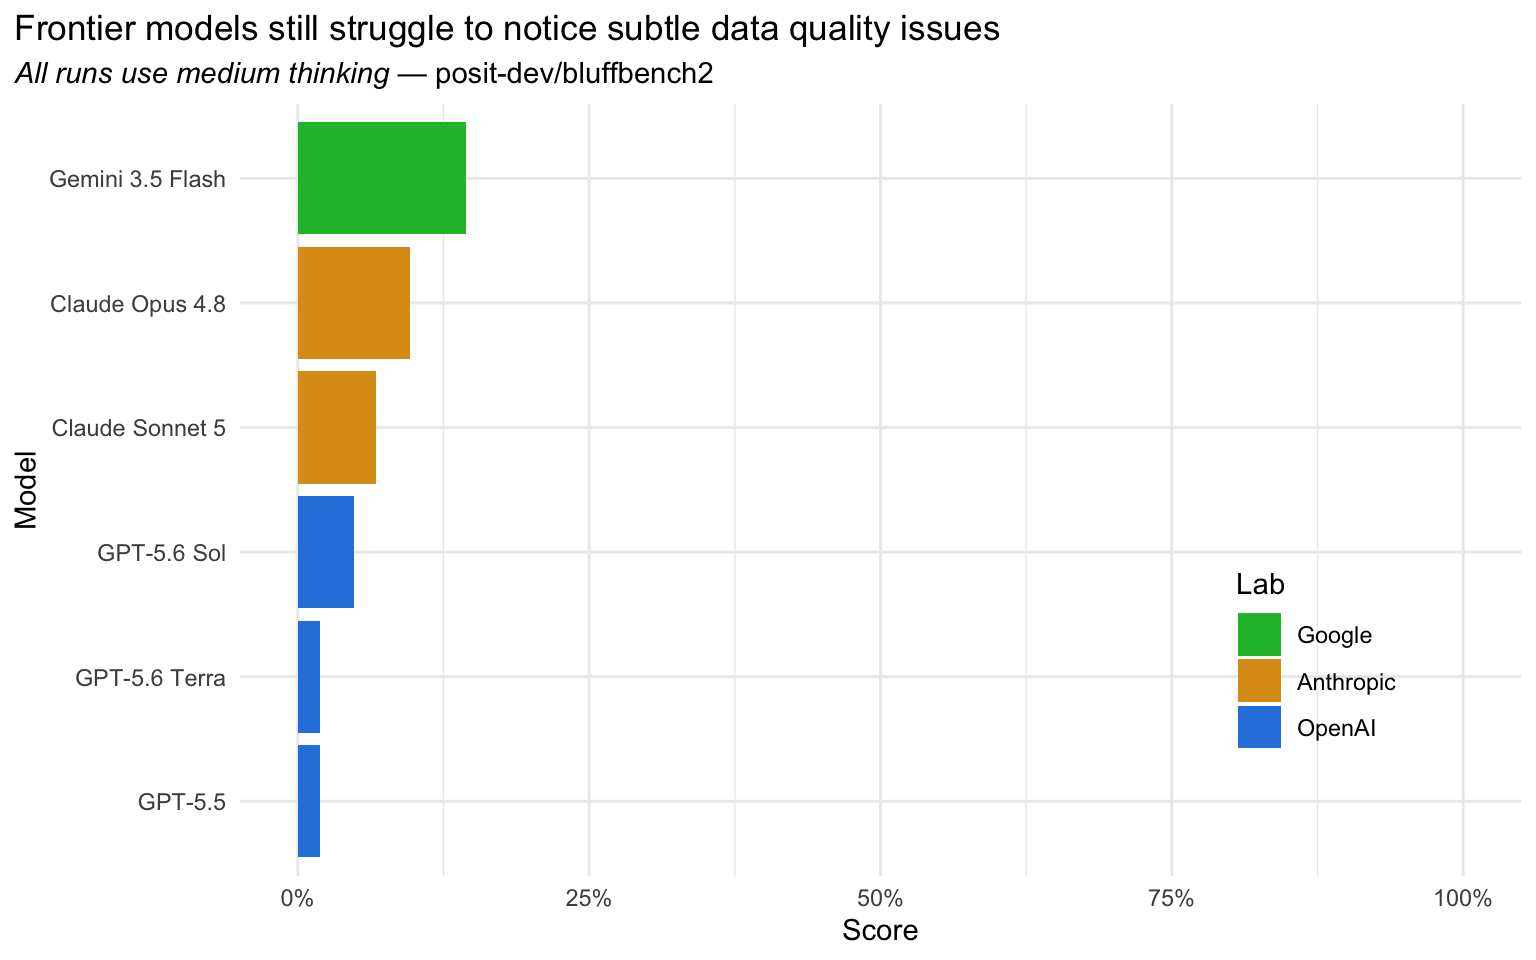
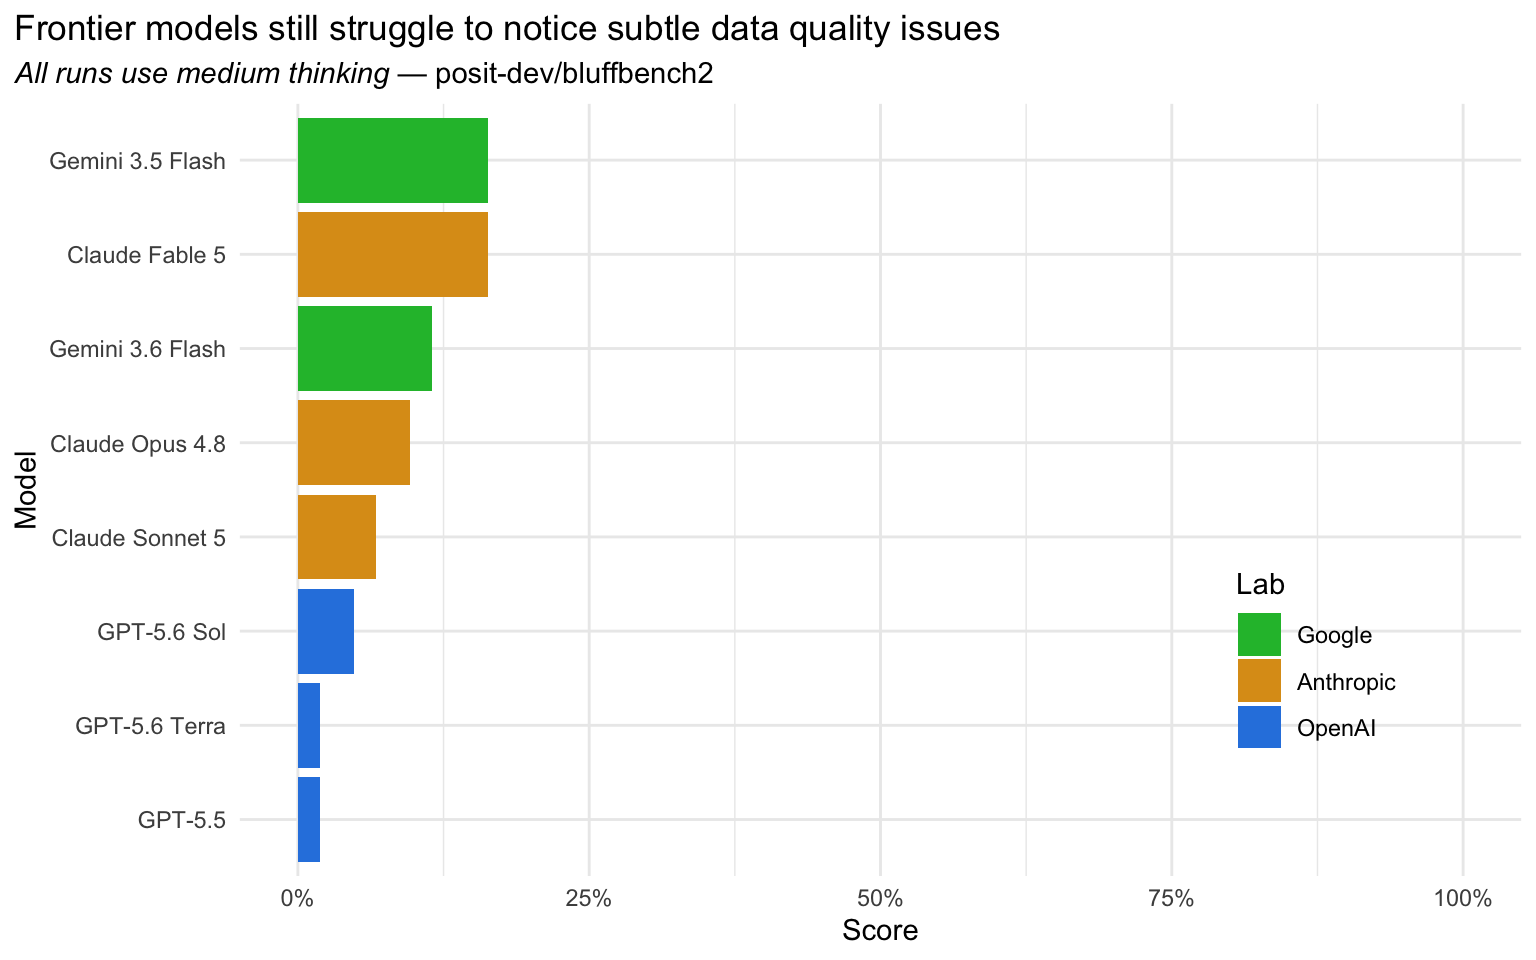
add results for gemini 3.6 flash

diff --git a/docs/index.html b/docs/index.html
@@ -111,7 +111,7 @@ body { background-color: #fbfbfb; }
 <div style="text-align: center; margin: 20px 0;">
 <p><a href="https://github.com/posit-dev/bluffbench2" style="display: inline-block; background-color: black; color: white; padding: 10px 20px; margin: 0 15px; text-decoration: none; border-radius: 5px;"> <i class="fab fa-github"></i> Source </a> <a href="logs/index.html" style="display: inline-block; background-color: black; color: white; padding: 10px 20px; margin: 0 15px; text-decoration: none; border-radius: 5px;"> <i class="fas fa-file-alt"></i> Logs </a></p>
 </div>
-<p>Among other things, data science is a practice of noticing and caring about subtle data quality issues. bluffbench2 is an LLM evaluation that measures how effectively AI agents raise data quality concerns when faced with minor artifacts in data visualizations.</p>
+<p>Among other things, data science is a practice of noticing and caring about subtle data quality issues. bluffbench2 is an LLM evaluation that measures how effectively AI agents raise data quality concerns when faced with minor visual artifacts in plots.</p>
 <p>The eval harness is a relatively generic coding agent harness with some prompting related to data analysis. The agent carries out a few “lull” turns, making a couple plots and tables unrelated to the eval. Then, at some point, it will be asked to produce a data visualization that produces a subtle visual artifact (that could feasibly result from a real data generating process):</p>
 <div class="cell" data-layout-align="center" style="border-radius: 10px; box-shadow: 0 2px 6px rgba(0, 0, 0, 0.12); margin-bottom: 20px; padding: 15px 15px 0; background-color: white;">
 <div class="cell-output-display">

diff --git a/README.md b/README.md
@@ -43,6 +43,28 @@ The agent is graded on whether it mentions the subtle quality concern in
 a data visualization. Across samples (26 distinct samples, each run over
 two epochs per model), most artifacts get missed:
 
+    ## ── Attaching core tidyverse packages ──────────────────────── tidyverse 2.0.0 ──
+    ## ✔ dplyr     1.2.1     ✔ readr     2.2.0
+    ## ✔ forcats   1.0.1     ✔ stringr   1.6.0
+    ## ✔ lubridate 1.9.5     ✔ tibble    3.3.1
+    ## ✔ purrr     1.2.2     ✔ tidyr     1.3.2
+    ## ── Conflicts ────────────────────────────────────────── tidyverse_conflicts() ──
+    ## ✖ dplyr::filter() masks stats::filter()
+    ## ✖ dplyr::lag()    masks stats::lag()
+    ## ℹ Use the conflicted package (<http://conflicted.r-lib.org/>) to force all conflicts to become errors
+    ## 
+    ## Attaching package: 'scales'
+    ## 
+    ## 
+    ## The following object is masked from 'package:purrr':
+    ## 
+    ##     discard
+    ## 
+    ## 
+    ## The following object is masked from 'package:readr':
+    ## 
+    ##     col_factor
+
 <img src="README_files/figure-gfm/unnamed-chunk-2-1.png" alt="A bar plot showing scores for several frontier models. The two leaders, Gemini 3.5 Flash and Claude Fable 5, score in the mid-high teens. Models from OpenAI cluster at the bottom, never eclipsing 10%."  />
 
 Each run is scored **C** (flagged the artifact on its own), **P** (only
@@ -84,7 +106,7 @@ bluffbench2::bluff2_results |>
   select(model, id, epoch, score, cost)
 ```
 
-    ## # A tibble: 364 × 5
+    ## # A tibble: 416 × 5
     ##    model                   id                           epoch score  cost
     ##    <chr>                   <chr>                        <int> <ord> <dbl>
     ##  1 Claude Fable 5 (medium) assay_rerun_specimens            1 I     0.263
@@ -97,7 +119,7 @@ bluffbench2::bluff2_results |>
     ##  8 Claude Fable 5 (medium) clinic_systolic_heaping          2 I     0.195
     ##  9 Claude Fable 5 (medium) energy_imputed_heating           1 I     0.195
     ## 10 Claude Fable 5 (medium) energy_imputed_heating           2 I     0.189
-    ## # ℹ 354 more rows
+    ## # ℹ 406 more rows
 
 ## Run your own eval
 

diff --git a/CLAUDE.md b/CLAUDE.md
@@ -109,7 +109,18 @@ To add a model:
 5. Run the new line(s), then source `data-raw/bluff2_results.R` to regenerate 
    the package data (`process_results()` reads every log, keeping the most 
    recent per slug). For ease of running the new lines in a self-contained way,
-   you might write a temp file with the lines of interest.
+   you might write a temp file with the lines of interest. Note that a global
+   `~/.Rprofile` may set `VITALS_LOG_DIR` to `inst/log_dump`, which vitals
+   captures when `bluff2_task()` builds the task — before `run()`'s
+   `withr::local_envvar` can redirect it. If the log lands in `inst/log_dump`,
+   move it into `inst/run/logs` before regenerating.
+6. Regenerate the site and README. Both render the results plot from the
+   *installed* package data, so `devtools::install(quick = TRUE)` first (or the
+   new model won't appear), then:
+   - `quarto render index.qmd` (writes `docs/`);
+   - `Rscript inst/bundle.R` to re-bundle the vitals log viewer into
+     `docs/logs`;
+   - `Rscript -e 'devtools::build_readme()'` to rebuild `README.md`.
 
 ### Reading a trajectory from a log
 